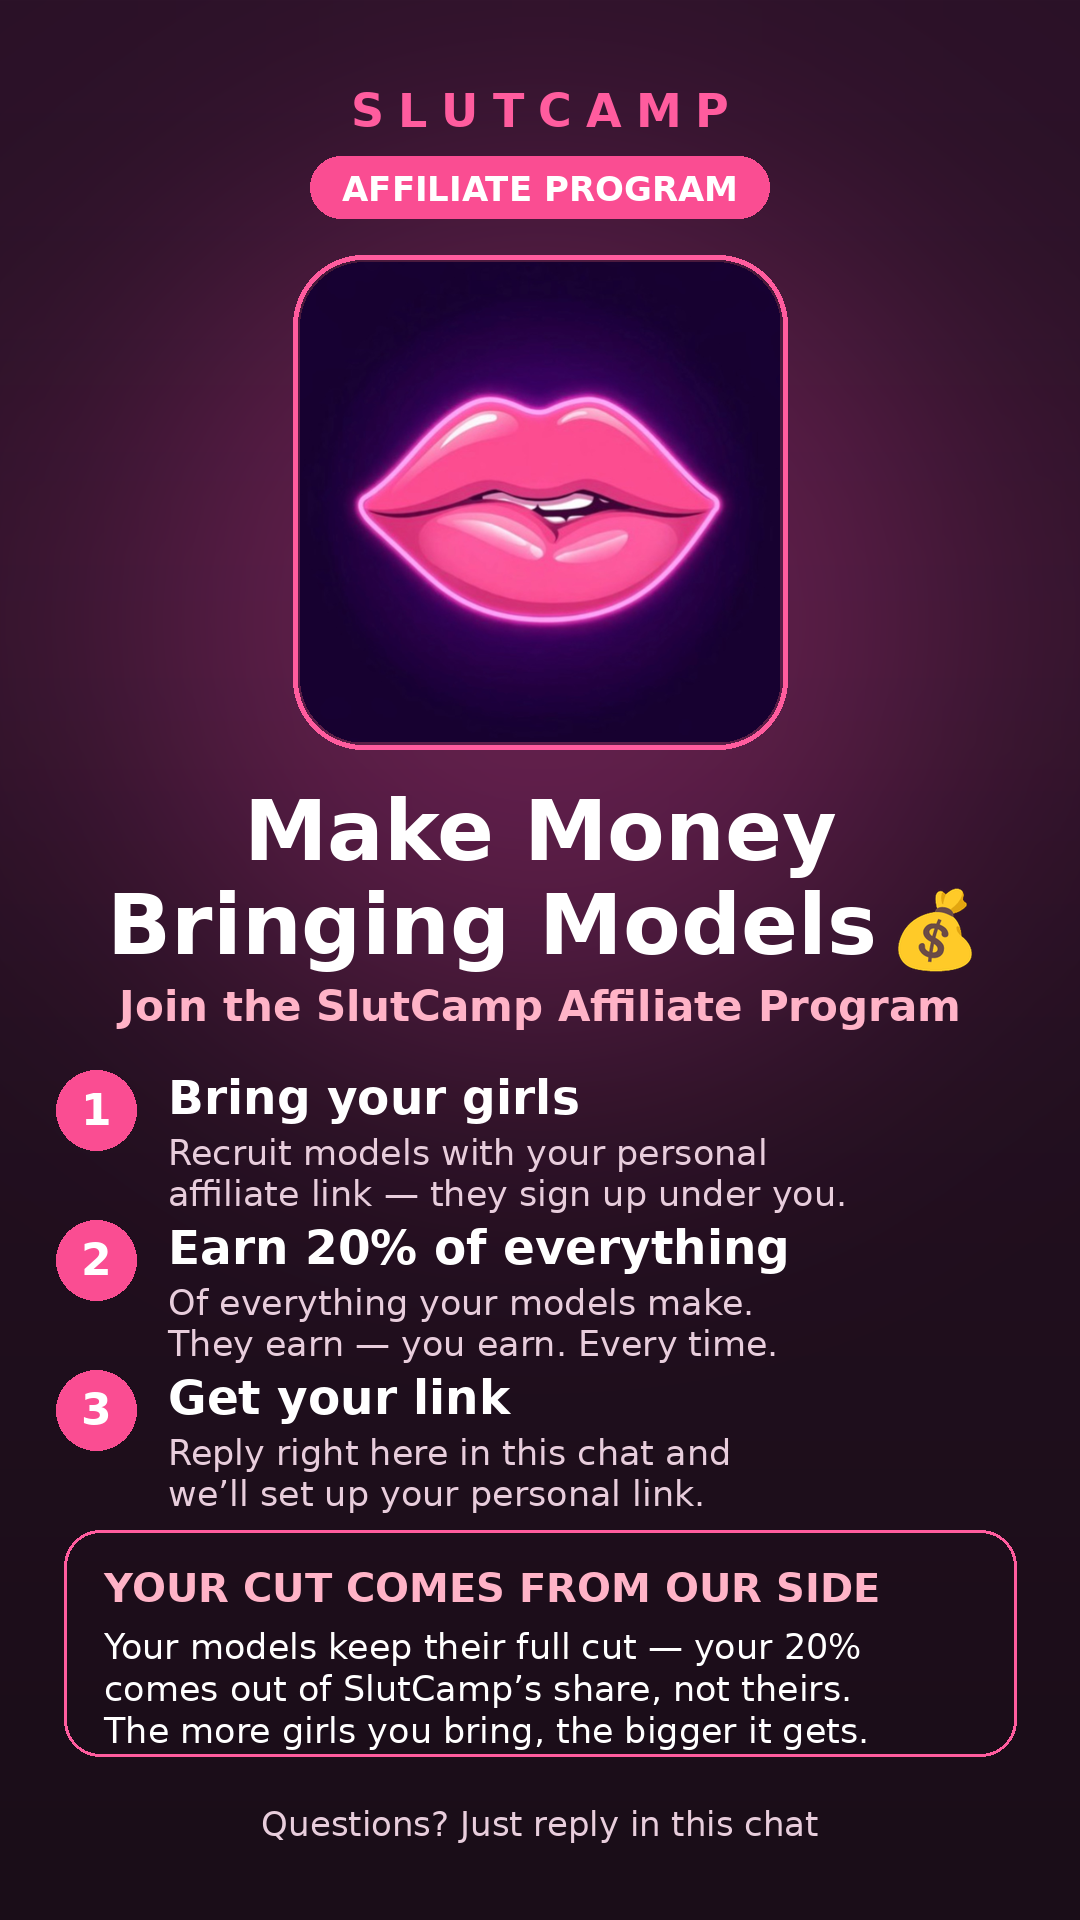
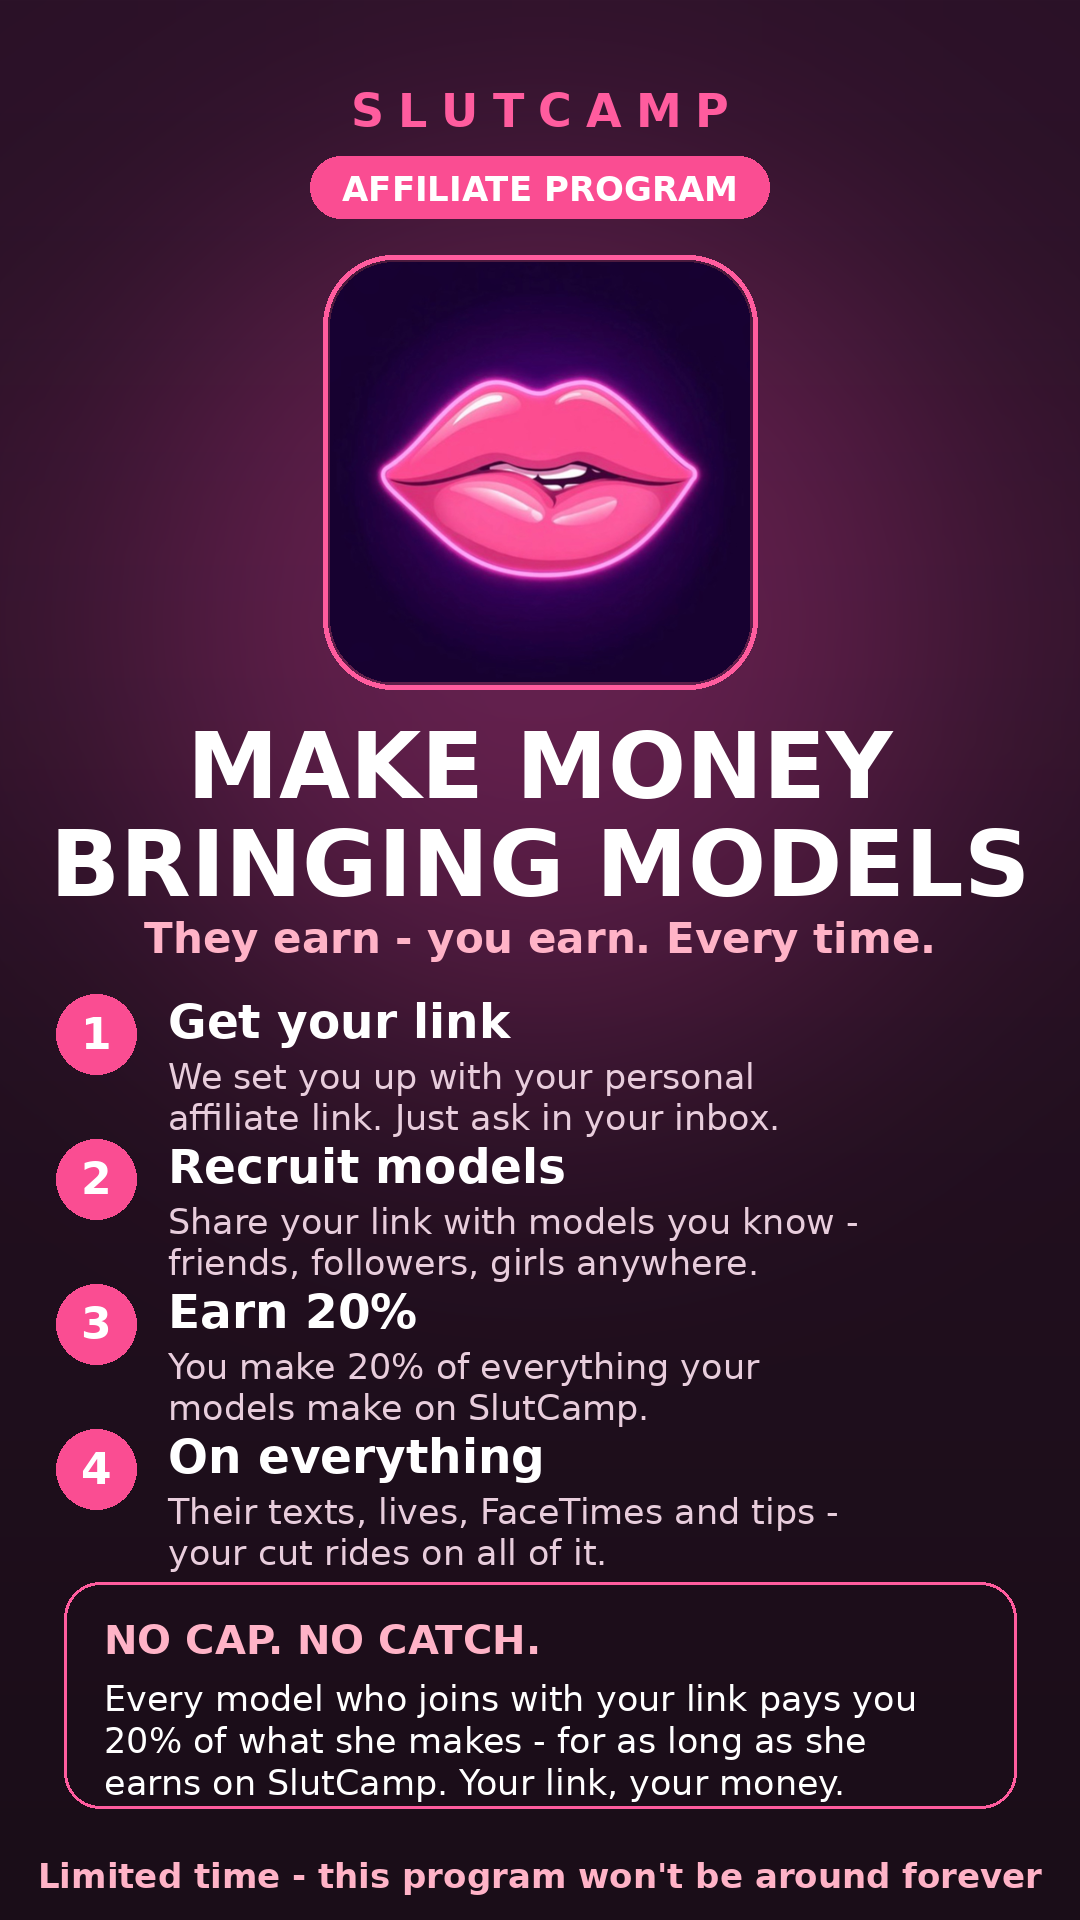
Affiliate welcome DM: limited-time line (EN/ES/PT) + amended affiliate print with limited footer

Changed region(s): [[0.0306, 0.125, 0.9472, 1.0], [0.9167, 0.9062, 0.9472, 0.9375], [0.9167, 0.8125, 0.9472, 0.8438]]

diff --git a/server.js b/server.js
@@ -1891,11 +1891,11 @@ function sendPendingModelIdVerifies() {
 const AFFILIATE_IMG_FILE = path.join(__dirname, 'public', 'img', 'affiliate-program-announce.png');
 const AFFILIATE_IMG_URL = 'https://slutcamp.app/img/affiliate-program-announce.png';
 const MODEL_AFFILIATE = {
-  en: `💰 One more way to make money here: our affiliate program. Recruit other models onto SlutCamp with your personal link, and you'll make 20% of everything those models make. It's that simple: they earn, you earn. Interested? Reply right here and we'll send your affiliate signup link and set up your personal recruiting link. If you have any questions, let me know. 💋
+  en: `💰 One more way to make money here: our affiliate program. Recruit other models onto SlutCamp with your personal link, and you'll make 20% of everything those models make. It's that simple: they earn, you earn. ⏳ This offer is limited — the program won't be around forever, so get set up while it's open. Interested? Reply right here and we'll send your affiliate signup link and set up your personal recruiting link. If you have any questions, let me know. 💋
 ${AFFILIATE_IMG_URL}`,
-  es: `💰 Otra forma de ganar dinero aquí: nuestro programa de afiliadas. Recluta a otras modelos en SlutCamp con tu enlace personal y ganarás el 20% de todo lo que esas modelos ganen. Así de simple: ellas ganan, tú ganas. ¿Te interesa? Responde aquí mismo y te enviamos tu enlace de registro de afiliada y configuramos tu enlace personal de reclutamiento. Si tienes preguntas, avísame. 💋
+  es: `💰 Otra forma de ganar dinero aquí: nuestro programa de afiliadas. Recluta a otras modelos en SlutCamp con tu enlace personal y ganarás el 20% de todo lo que esas modelos ganen. Así de simple: ellas ganan, tú ganas. ⏳ Esta oferta es limitada — el programa no estará disponible para siempre, así que actívalo mientras esté abierto. ¿Te interesa? Responde aquí mismo y te enviamos tu enlace de registro de afiliada y configuramos tu enlace personal de reclutamiento. Si tienes preguntas, avísame. 💋
 ${AFFILIATE_IMG_URL}`,
-  pt: `💰 Outra forma de ganhar dinheiro aqui: nosso programa de afiliadas. Recrute outras modelos para a SlutCamp com seu link pessoal e você ganha 20% de tudo que essas modelos ganharem. É simples assim: elas ganham, você ganha. Quer participar? Responda aqui mesmo e enviamos seu link de cadastro de afiliada e configuramos seu link pessoal de recrutamento. Se tiver dúvidas, é só me chamar. 💋
+  pt: `💰 Outra forma de ganhar dinheiro aqui: nosso programa de afiliadas. Recrute outras modelos para a SlutCamp com seu link pessoal e você ganha 20% de tudo que essas modelos ganharem. É simples assim: elas ganham, você ganha. ⏳ Esta oferta é limitada — o programa não estará disponível para sempre, então garanta o seu enquanto está aberto. Quer participar? Responda aqui mesmo e enviamos seu link de cadastro de afiliada e configuramos seu link pessoal de recrutamento. Se tiver dúvidas, é só me chamar. 💋
 ${AFFILIATE_IMG_URL}`,
 };
 
